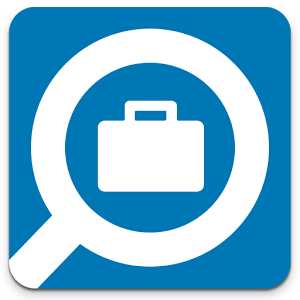
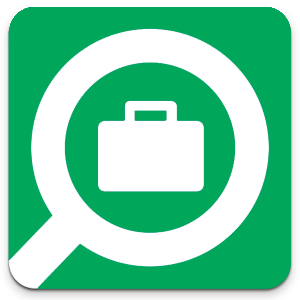
[#3] Configure adminlte template to be friendly with website

diff --git a/public/admin/css/style.css b/public/admin/css/style.css
@@ -1,2 +1,2 @@
-*{font-family:'Cairo', sans-serif}.login-box{width:360px;margin:0;position:relative;top:50%;left:50%;transform:translate(-50%, -50%);max-width:90%}.login-box .action{display:flex;justify-content:space-between}.login-box .action .action-item .signin{margin:7px 0}
+*{font-family:'Cairo', sans-serif}::selection{color:white;background:#00a65a}.form-control:focus{border-color:#00a65a}.login-box{width:360px;margin:0;position:relative;top:50%;left:50%;transform:translate(-50%, -50%);max-width:90%}.login-box .action{display:flex;justify-content:space-between}.login-box .action .action-item .signin{margin:7px 0}
 /*# sourceMappingURL=style.css.map */

diff --git a/public/admin/css/style.scss b/public/admin/css/style.scss
@@ -1,6 +1,8 @@
 //My Framework
 *{font-family: 'Cairo', sans-serif;}
-
+$primaryColor:#00a65a;
+::selection {color: white;background: $primaryColor;}
+.form-control:focus{border-color:$primaryColor}
 //Login page
 .login-box{
   width: 360px;margin: 0;position: relative;top: 50%;left: 50%;transform: translate(-50%, -50%);max-width:90%;

diff --git a/resources/views/admin/layouts/app.blade.php b/resources/views/admin/layouts/app.blade.php
@@ -1,101 +1,69 @@
 <!DOCTYPE html>
 <html>
-<head>
-  <meta charset="utf-8">
-  <meta http-equiv="X-UA-Compatible" content="IE=edge">
-  <meta name="viewport" content="width=device-width, initial-scale=1">
-  <meta name="description" content="description">
-  <title>Home | Free Jops</title>
-  <meta content="width=device-width, initial-scale=1, maximum-scale=1, user-scalable=no" name="viewport">
-  <link rel="stylesheet" href="https://maxcdn.bootstrapcdn.com/bootstrap/3.3.7/css/bootstrap.min.css">
-  <link rel="stylesheet" href="https://maxcdn.bootstrapcdn.com/font-awesome/4.7.0/css/font-awesome.min.css">
-  <link rel="stylesheet" href="http://code.ionicframework.com/ionicons/2.0.1/css/ionicons.min.css">
-  <link rel="stylesheet" href="https://cdnjs.cloudflare.com/ajax/libs/admin-lte/2.4.2/css/AdminLTE.min.css">
-  <link rel="stylesheet" href="https://cdnjs.cloudflare.com/ajax/libs/admin-lte/2.4.2/css/skins/skin-green.min.css">
-  <link rel="stylesheet" href="https://cdnjs.cloudflare.com/ajax/libs/morris.js/0.5.1/morris.css">
-  <link rel="stylesheet" href="https://cdnjs.cloudflare.com/ajax/libs/jvectormap/2.0.4/jquery-jvectormap.min.css">
-  <link rel="stylesheet" href="https://cdnjs.cloudflare.com/ajax/libs/bootstrap-datepicker/1.7.1/css/bootstrap-datepicker.min.css">
-  <link rel="stylesheet" href="https://cdnjs.cloudflare.com/ajax/libs/bootstrap-daterangepicker/2.1.25/daterangepicker.min.css">
-  <link rel="stylesheet" href="https://cdnjs.cloudflare.com/ajax/libs/bootstrap3-wysiwyg/0.3.3/amd/bootstrap3-wysihtml5.all.min.js">
+  <head>
+    <meta charset="utf-8">
+    <meta http-equiv="X-UA-Compatible" content="IE=edge">
+    <meta name="viewport" content="width=device-width, initial-scale=1">
+    <meta name="description" content="description">
+    <meta content="width=device-width, initial-scale=1, maximum-scale=1, user-scalable=no" name="viewport">
+    <title>Home | Free Jops</title>
+    <link rel="shortcut icon" href="{{ url('admin/images/icon.png') }}">
+    <link rel="stylesheet" href="https://maxcdn.bootstrapcdn.com/bootstrap/3.3.7/css/bootstrap.min.css">
+    <link rel="stylesheet" href="https://maxcdn.bootstrapcdn.com/font-awesome/4.7.0/css/font-awesome.min.css">
+    <link rel="stylesheet" href="https://code.ionicframework.com/ionicons/2.0.1/css/ionicons.min.css">
+    <link rel="stylesheet" href="{{ url('admin/css/template/AdminLTE.min.css') }}">
+    <link rel="stylesheet" href="https://cdnjs.cloudflare.com/ajax/libs/admin-lte/2.4.2/css/skins/skin-green.min.css">
+    <link rel="stylesheet" href="https://cdnjs.cloudflare.com/ajax/libs/morris.js/0.5.1/morris.css">
+    <link rel="stylesheet" href="https://cdnjs.cloudflare.com/ajax/libs/jvectormap/2.0.4/jquery-jvectormap.min.css">
+    <link rel="stylesheet" href="https://cdnjs.cloudflare.com/ajax/libs/bootstrap-datepicker/1.7.1/css/bootstrap-datepicker.min.css">
+    <link rel="stylesheet" href="https://cdnjs.cloudflare.com/ajax/libs/bootstrap-daterangepicker/2.1.25/daterangepicker.min.css">
+    <link rel="stylesheet" href="{{ url('admin/css/template/bootstrap3-wysihtml5.min.css') }}">
+    <link rel="stylesheet" href="{{ url('admin/css/template/bootstrap-rtl.min.css') }}">
+    <link rel="stylesheet" href="{{ url('admin/css/template/rtl.css') }}">
+    <!-- HTML5 Shim and Respond.js IE8 support of HTML5 elements and media queries -->
+    <!-- WARNING: Respond.js doesn't work if you view the page via file:// -->
+    <!--[if lt IE 9]>
+        <script src="https://oss.maxcdn.com/html5shiv/3.7.2/html5shiv.min.js"></script>
+        <script src="https://oss.maxcdn.com/respond/1.4.2/respond.min.js"></script>
+    <![endif]-->
+    <link rel="stylesheet" href="https://fonts.googleapis.com/css?family=Cairo">
+    <link rel="stylesheet" href="{{ url('admin/css/style.css') }}">
+  </head>
+  <body class="skin-green sidebar-mini">
+    <div class="wrapper">
+      @include('admin/layouts/header')
+      @include('admin/layouts/sidebar')
 
-  <!--[if lt IE 9]>
-  <script src="https://oss.maxcdn.com/html5shiv/3.7.3/html5shiv.min.js"></script>
-  <script src="https://oss.maxcdn.com/respond/1.4.2/respond.min.js"></script>
-  <![endif]-->
+      <!-- Content Wrapper. Contains page content -->
+      <div class="content-wrapper">
+        @yield('content')
+      </div><!-- /.content-wrapper -->
 
-  <!-- Google Font -->
-  <link rel="stylesheet" href="https://fonts.googleapis.com/css?family=Source+Sans+Pro:300,400,600,700,300italic,400italic,600italic">
-</head>
-<body class="hold-transition skin-blue sidebar-mini">
-<div class="wrapper">
-    <nav class="navbar navbar-default navbar-static-top">
-        <div class="container">
-            <div class="navbar-header">
+      @include('admin/layouts/footer')
+      @include('admin/layouts/sidecontrol')
 
-                <!-- Collapsed Hamburger -->
-                <button type="button" class="navbar-toggle collapsed" data-toggle="collapse" data-target="#app-navbar-collapse">
-                    <span class="sr-only">Toggle Navigation</span>
-                    <span class="icon-bar"></span>
-                    <span class="icon-bar"></span>
-                    <span class="icon-bar"></span>
-                </button>
+    </div><!-- ./wrapper -->
 
-                <!-- Branding Image -->
-                <a class="navbar-brand" href="{{ url('/') }}">
-                    Laravel
-                </a>
-            </div>
-
-            <div class="collapse navbar-collapse" id="app-navbar-collapse">
-                <!-- Left Side Of Navbar -->
-                <ul class="nav navbar-nav">
-                    <li><a href="{{ url('/home') }}">Home</a></li>
-                </ul>
-
-                <!-- Right Side Of Navbar -->
-                <ul class="nav navbar-nav navbar-right">
-                    <!-- Authentication Links -->
-                    @if (Auth::guest())
-                        <li><a href="{{ url('/login') }}">Login</a></li>
-                        <li><a href="{{ url('/register') }}">Register</a></li>
-                    @else
-                        <li class="dropdown">
-                            <a href="#" class="dropdown-toggle" data-toggle="dropdown" role="button" aria-expanded="false">
-                                {{ Auth::user()->name }} <span class="caret"></span>
-                            </a>
-
-                            <ul class="dropdown-menu" role="menu">
-                                <li><a href="{{ url('/logout') }}"><i class="fa fa-btn fa-sign-out"></i>Logout</a></li>
-                            </ul>
-                        </li>
-                    @endif
-                </ul>
-            </div>
-        </div>
-    </nav>
-
-    @yield('content')
-  </div>
-  <script src="https://cdnjs.cloudflare.com/ajax/libs/jquery/3.2.1/jquery.min.js"></script>
-  <script src="https://cdnjs.cloudflare.com/ajax/libs/jqueryui/1.12.1/jquery-ui.min.css"></script>
-  <script>
-    $.widget.bridge('uibutton', $.ui.button);
-  </script>
-  <script src="https://cdnjs.cloudflare.com/ajax/libs/twitter-bootstrap/3.3.7/js/bootstrap.min.js"></script>
-  <script src="https://cdnjs.cloudflare.com/ajax/libs/raphael/2.2.7/raphael.min.js"></script>
-  <script src="https://cdnjs.cloudflare.com/ajax/libs/morris.js/0.5.1/morris.min.js"></script>
-  <script src="https://cdnjs.cloudflare.com/ajax/libs/jquery-sparklines/2.1.2/jquery.sparkline.min.js"></script>
-  <script src="https://cdnjs.cloudflare.com/ajax/libs/jvectormap/2.0.4/jquery-jvectormap.min.js"></script>
-  <script src="{{ url('admin/js/jquery-jvectormap-world-mill-en.js') }}"></script>
-  <script src="https://cdnjs.cloudflare.com/ajax/libs/jQuery-Knob/1.2.13/jquery.knob.min.js"></script>
-  <script src="https://cdnjs.cloudflare.com/ajax/libs/moment.js/2.19.1/moment.min.js"></script>
-  <script src="https://cdnjs.cloudflare.com/ajax/libs/bootstrap-daterangepicker/2.1.25/daterangepicker.min.js"></script>
-  <script src="https://cdnjs.cloudflare.com/ajax/libs/bootstrap-datepicker/1.7.1/js/bootstrap-datepicker.min.js"></script>
-  <script src="https://cdnjs.cloudflare.com/ajax/libs/bootstrap3-wysiwyg/0.3.3/amd/bootstrap3-wysihtml5.all.min.js"></script>
-  <script src="https://cdnjs.cloudflare.com/ajax/libs/jQuery-slimScroll/1.3.8/jquery.slimscroll.min.js"></script>
-  <script src="https://cdnjs.cloudflare.com/ajax/libs/fastclick/1.0.6/fastclick.min.js"></script>
-  <script src="https://cdnjs.cloudflare.com/ajax/libs/admin-lte/2.4.2/js/adminlte.min.js"></script>
-  <script src="https://cdnjs.cloudflare.com/ajax/libs/admin-lte/2.4.2/js/pages/dashboard.js"></script>
-  <script src="https://cdnjs.cloudflare.com/ajax/libs/admin-lte/2.4.2/js/demo.js"></script>
-</body>
+    <script src="https://cdnjs.cloudflare.com/ajax/libs/jquery/2.1.4/jquery.min.js"></script>
+    <script src="https://code.jquery.com/ui/1.11.4/jquery-ui.min.js"></script>
+    <script>$.widget.bridge('uibutton', $.ui.button);</script>
+    <script src="https://cdnjs.cloudflare.com/ajax/libs/twitter-bootstrap/3.3.7/js/bootstrap.min.js"></script>
+    <script src="https://cdnjs.cloudflare.com/ajax/libs/raphael/2.2.7/raphael.min.js"></script>
+    <script src="https://cdnjs.cloudflare.com/ajax/libs/morris.js/0.5.1/morris.min.js"></script>
+    <script src="https://cdnjs.cloudflare.com/ajax/libs/jquery-sparklines/2.1.2/jquery.sparkline.min.js"></script>
+    <script src="{{ url('admin/js/template/jquery-jvectormap-1.2.2.min.js') }}"></script>
+    <script src="{{ url('admin/js/template/jquery-jvectormap-world-mill-en.js') }}"></script>
+    <script src="https://cdnjs.cloudflare.com/ajax/libs/jQuery-Knob/1.2.13/jquery.knob.min.js"></script>
+    <script src="https://cdnjs.cloudflare.com/ajax/libs/moment.js/2.10.2/moment.min.js"></script>
+    <script src="https://cdnjs.cloudflare.com/ajax/libs/bootstrap-daterangepicker/2.1.25/daterangepicker.min.js"></script>
+    <script src="https://cdnjs.cloudflare.com/ajax/libs/bootstrap-datepicker/1.7.1/js/bootstrap-datepicker.min.js"></script>
+    <script src="https://cdnjs.cloudflare.com/ajax/libs/bootstrap3-wysiwyg/0.3.3/amd/bootstrap3-wysihtml5.all.min.js"></script>
+    <script src="https://cdnjs.cloudflare.com/ajax/libs/bootstrap3-wysiwyg/0.3.3/amd/bootstrap3-wysihtml5.all.min.js"></script>
+    <script src="{{ url('admin/js/template/bootstrap3-wysihtml5.all.min.js') }}"></script>
+    <script src="https://cdnjs.cloudflare.com/ajax/libs/jQuery-slimScroll/1.3.8/jquery.slimscroll.min.js"></script>
+    <script src="https://cdnjs.cloudflare.com/ajax/libs/fastclick/1.0.6/fastclick.min.js"></script>
+    <script src="{{ url('admin/js/template/app.min.js') }}"></script>
+    <script src="https://cdnjs.cloudflare.com/ajax/libs/admin-lte/2.4.2/js/pages/dashboard.js"></script>
+    <script src="{{ url('admin/js/template/demo.js') }}"></script>
+  </body>
 </html>

diff --git a/resources/views/auth/login.blade.php b/resources/views/auth/login.blade.php
@@ -13,7 +13,7 @@
   <link rel="stylesheet" href="https://maxcdn.bootstrapcdn.com/font-awesome/4.7.0/css/font-awesome.min.css">
   <link rel="stylesheet" href="http://code.ionicframework.com/ionicons/2.0.1/css/ionicons.min.css">
   <link rel="stylesheet" href="https://cdnjs.cloudflare.com/ajax/libs/admin-lte/2.4.2/css/AdminLTE.min.css">
-  <link rel="stylesheet" href="{{ url('admin/css/libs/blue.css') }}">
+  <link rel="stylesheet" href="{{ url('admin/css/libs/green.css') }}">
   <!--[if lt IE 9]>
   <script src="https://oss.maxcdn.com/html5shiv/3.7.3/html5shiv.min.js"></script>
   <script src="https://oss.maxcdn.com/respond/1.4.2/respond.min.js"></script>
@@ -58,7 +58,7 @@
             </div>
           </div>
           <div class="action-item">
-            <button type="submit" class="btn btn-primary btn-block btn-flat signin">Sign In</button>
+            <button type="submit" class="btn btn-success btn-block btn-flat signin">Sign In</button>
           </div>
         </div>
       {!! Form::close() !!}
@@ -72,8 +72,8 @@
 <script>
   $(function () {
     $('input').iCheck({
-      checkboxClass: 'icheckbox_square-blue',
-      radioClass: 'iradio_square-blue',
+      checkboxClass: 'icheckbox_square-green',
+      radioClass: 'iradio_square-green',
       increaseArea: '20%'
     });
   });

diff --git a/app/Http/routes.php b/app/Http/routes.php
@@ -2,21 +2,21 @@
 
 //Admin routes
 Route::group(['prefix' => 'adminpanel'], function () {
+
+  //Custom Auth methods
   Route::get('/',  'Auth\AuthController@showLoginForm');
   Route::get('/login',  'Auth\AuthController@showLoginForm');
   Route::post('/login', 'Auth\AuthController@login');
   Route::get('/logout', 'Auth\AuthController@logout');
+
   //Admin only can go here
   Route::group(['middleware' => 'admin'], function () {
-    Route::get('/dashboard', function () {
-      return 'dashoard page';
-    });
+    Route::get('/dashboard', 'DashboardController@index');
   });
 
   Route::get('/home', 'HomeController@index');
 
 });
-
 
 
 Route::get('/', function () {

diff --git a/app/Http/Middleware/Admin.php b/app/Http/Middleware/Admin.php
@@ -16,6 +16,7 @@ class Admin
      */
     public function handle($request, Closure $next)
     {
+        //Check if user login or not then redirect user if not logged to login page
         if (! Auth::user()->id) {
           return redirect('adminpanel/login');
         }
